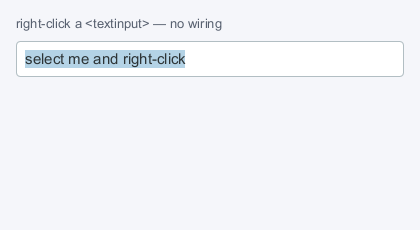
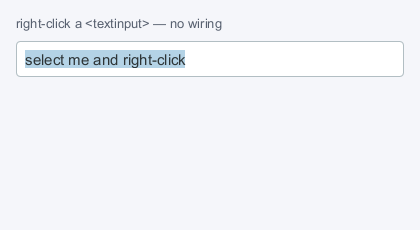
fix(elements): a cell is not a paragraph, and a field's text sits on its capitals
Three from the same review, all one root: text placed by the font's line box
rather than by the letters in it.

**A cell that wrapped was sliced, not taller.** A `<text>` measures
height-for-width, so a locale date in a 150px Modified column wrapped to two
lines inside a 24px row — and a row is a fixed height, so what showed was a
line and a half of date with the rest cut off top and bottom, spilling over
the rows either side. Any name longer than its column did the same.

`textWrap: 'nowrap'` is new and is CSS's: measure at unbounded width, stay on
one line, and let the box decide what to do about the overflow — which
`overflow: 'hidden'` on a cell already knew. `<Table>` sets it on every cell
and every header. The file dialog's Modified column goes to 200px as well,
sized for the long form of a locale date and time rather than the short one,
so the common case does not need the clip at all.

**A field's text sat where the ascent put it.** `<textinput>` centred the
glyph ink, ascent plus descent, which fixes the leading but not what is under
it: a font's ascent clears its capitals by a number that is not its descent,
so one short line in a bordered box sits visibly off centre — 14px above the
capitals against 12 below, at 16px in SF NS. It now puts the baseline where
the two are equal. A field cannot trim its box the way a `<text>` does, since
the caret and the selection are measured against the full line box, so it
[…]

Changed region(s): [[0.0619, 0.2435, 0.4643, 0.3043]]

diff --git a/src/nodes.js b/src/nodes.js
@@ -2129,7 +2129,7 @@ export class TextNode extends Node {
       this.yoga.setMeasureFunc((width, widthMode) => {
         const maxWidth =
           widthMode === Yoga.MEASURE_MODE_UNDEFINED ? Infinity : width;
-        const layout = this._layoutFor(maxWidth);
+        const layout = this._layoutFor(this._wrapWidth(maxWidth));
         if (!layout) return { width: 0, height: 0 };
         const trim = this._trim(layout);
         return {
@@ -2221,6 +2221,22 @@ export class TextNode extends Node {
     return out;
   }
 
+  /**
+   * `textWrap: 'nowrap'` — CSS's, and the reason a table cell is a table cell
+   * rather than a paragraph.
+   *
+   * A `<text>` measures height-for-width: hand it a narrow box and it wraps
+   * to fit, which is right for prose and wrong for a row of a list. A cell is
+   * a fixed height, so a date that wraps to two lines is not a taller row —
+   * it is a line and a half of date with the rest sliced off, top and bottom,
+   * and the same is true of any name longer than its column. Measuring at
+   * unbounded width makes the overflow horizontal instead, which is what
+   * `overflow: 'hidden'` on the cell already knows how to deal with.
+   */
+  _wrapWidth(maxWidth) {
+    return this.style.textWrap === 'nowrap' ? Infinity : maxWidth;
+  }
+
   _layoutFor(maxWidth) {
     const fonts = this.app?.fonts;
     if (!fonts) return null; // mock container in tests: no text metrics
@@ -2280,7 +2296,7 @@ export class TextNode extends Node {
 
   _paintContent(ctx) {
     const content = this.contentBox();
-    const layout = this._layoutFor(content.width || Infinity);
+    const layout = this._layoutFor(this._wrapWidth(content.width || Infinity));
     if (!layout) return;
     // the box was shortened from the top, so the glyphs come up with it
     const trim = this._trim(layout);
@@ -4039,12 +4055,36 @@ export class TextInputNode extends Node {
       ? (this.props.placeholderColor ?? this.theme.dim)
       : style.color;
     const layout = fonts.layout([{ text: shown, ...style, color }], style);
-    // Center the glyph ink (ascent + descent) rather than layout.height:
-    // the layout box carries the line's leading entirely below the glyphs,
-    // which would push the text visually upward (see halfLeading above).
+    // Centre on the **capitals**, not on the line box and not on the ink.
+    //
+    // The layout box carries the line's leading entirely below the glyphs, so
+    // centring that pushes the text visually up (see `halfLeading`). Centring
+    // ascent + descent — what this did — fixes the leading but not the
+    // asymmetry underneath it: a font's ascent clears its capitals by
+    // `ascent - capHeight`, which is not its descent, so a single line of
+    // text sits off-centre by a number that belongs to the typeface. At 14px
+    // that is 0.7px of extra space above the capitals in SF NS and 2.5px the
+    // other way in Helvetica — visible in a field, where there is one short
+    // line and a border close on both sides to measure it against.
+    //
+    // So: put the baseline where the space above the capitals equals the
+    // space under it. A `<text>` says the same thing as `textBoxTrim`, but a
+    // field cannot trim its box — the caret and the selection are measured
+    // against the full line box — so it moves the line instead, and the marks
+    // below follow because they are derived from the same origin.
     const line = layout.lines?.[0];
     const inkHeight = line ? line.ascent + line.descent : layout.height;
-    const textY = content.y + Math.max(0, (content.height - inkHeight) / 2);
+    const ascent = line?.ascent ?? 0;
+    const capHeight = fonts
+      .match?.(style.family, {
+        weight: style.weight,
+        style: style.style,
+      })
+      ?.metrics?.(style.size)?.capHeight;
+    const textY =
+      capHeight && line
+        ? content.y + (content.height + capHeight) / 2 - ascent
+        : content.y + Math.max(0, (content.height - inkHeight) / 2);
     // selection/caret read better with breathing room around the glyphs
     // (a DOM input highlights the whole line box, not just the ink)
     const markPad = Math.min(3, Math.max(0, textY - content.y));

diff --git a/test/integration.test.js b/test/integration.test.js
@@ -1333,6 +1333,67 @@ test('a button holds its label evenly on the capitals', async () => {
   }
 });
 
+// A row is a fixed height, so a cell that wraps is not a taller row — it is
+// a line and a half of text with the rest sliced off, top and bottom, and it
+// spills over the rows either side on the way. Needs real metrics: the mock
+// app has no fonts, so nothing there ever wraps.
+test('a table cell keeps its text on one line, inside its row', async () => {
+  const { app } = await createHeadlessApp();
+  const x11Root = await createRoot({ app });
+  const { Table } = await import('../src/index.js');
+
+  try {
+    const wnd = await render(
+      React.createElement(
+        'window',
+        { width: 300, height: 200 },
+        React.createElement(Table, {
+          columns: [
+            { id: 'name', label: 'Name', width: 90 },
+            { id: 'when', label: 'Modified', width: 70 },
+          ],
+          rows: [
+            {
+              id: 1,
+              name: 'a-very-long-file-name.txt',
+              when: '8/10/2026, 10:30:05 AM',
+            },
+            { id: 2, name: 'b.txt', when: '8/10/2026, 10:10:25 AM' },
+          ],
+        }),
+      ),
+      x11Root,
+    );
+    await new Promise((resolve) => setTimeout(resolve, 200));
+
+    const all = [];
+    const walk = (n) => {
+      all.push(n);
+      for (const c of n.children) if (!c.isWindow) walk(c);
+    };
+    walk(wnd._reactX11Node);
+    const rows = all.filter((n) => n.props.role === 'row');
+    assert.equal(rows.length, 2, 'both rows built');
+
+    for (const row of rows) {
+      for (const cell of row.children) {
+        const text = cell.children.find((n) => n.kind === 'text');
+        assert.ok(text, 'the cell drew its text');
+        assert.ok(
+          text.abs.y >= cell.abs.y &&
+            text.abs.y + text.abs.height <= cell.abs.y + cell.abs.height,
+          `text ${text.abs.y}..${text.abs.y + text.abs.height} escapes its ` +
+            `cell ${cell.abs.y}..${cell.abs.y + cell.abs.height}`,
+        );
+      }
+    }
+
+    await x11Root.unmount();
+  } finally {
+    await app.close();
+  }
+});
+
 test('a window with no size fits its text, and wraps to fit the screen', async () => {
   // The claim the mock-app tests cannot make: an auto size measured through
   // real glyph metrics, and the height-for-width pass that a wrapping

diff --git a/src/components/FileDialog.js b/src/components/FileDialog.js
@@ -32,6 +32,10 @@ const h = React.createElement;
 
 const ALL_FILES = '__all__';
 
+// A row is one line high, so a name longer than its column is clipped at the
+// column's edge rather than wrapped into a line and a half of name.
+const NOWRAP = Object.freeze({ textWrap: 'nowrap' });
+
 // Stat-ing every entry is one syscall each, which is nothing on a local
 // filesystem and very much something on a network mount with ten thousand
 // files in one directory. Past this, sizes and dates are left blank rather
@@ -334,6 +338,7 @@ export function FileDialog({
           {
             style: [
               capTrim,
+              NOWRAP,
               {
                 color: selected
                   ? theme.hoverText
@@ -358,8 +363,12 @@ export function FileDialog({
     });
     cols.push({
       id: 'modified',
+      // A locale date *and* time: 23 characters at the widest — "12/31/2026,
+      // 12:30:05 PM" — and a column that cannot hold one is the column that
+      // showed a sliced two-line date before cells stopped wrapping. Sized
+      // for the long form rather than for the short one.
       label: 'Modified',
-      width: 150,
+      width: 200,
       value: (row) =>
         row.modified ? new Date(row.modified).toLocaleString() : '',
     });

diff --git a/src/types/style.d.ts b/src/types/style.d.ts
@@ -148,6 +148,7 @@ export interface PaintStyle {
  * and the leading still splits evenly, moving both edges by the same amount.
  */
 export type TextBoxTrim = 'none' | 'cap-alphabetic';
+export type TextWrap = 'wrap' | 'nowrap';
 
 export type TextRendering =
   'auto' | 'optimizeSpeed' | 'optimizeLegibility' | 'geometricPrecision';
@@ -173,6 +174,11 @@ export interface TextStyle {
   textRendering?: TextRendering;
   textAlign?: TextAlign;
   lineHeight?: number;
+  /** CSS's `text-wrap`. `'nowrap'` measures the text at unbounded width, so
+   *  it stays on one line and overflows its box horizontally rather than
+   *  wrapping to fit — what a fixed-height row wants, since a wrapped line in
+   *  one is sliced rather than shown. Default `'wrap'`. */
+  textWrap?: TextWrap;
   /** Default `'none'`. Applies to `<text>`; the editable controls keep their
    *  full line box, which their caret and selection geometry are measured
    *  against. */

diff --git a/src/components/Table.js b/src/components/Table.js
@@ -58,7 +58,7 @@ const s = createStyles({
     cursor: 'pointer',
     transition: { backgroundColor: 80 },
   },
-  headerLabel: { fontSize: 12 },
+  headerLabel: { fontSize: 12, textWrap: 'nowrap' },
   grip: {
     flexShrink: 0,
     cursor: 'col-resize',
@@ -85,7 +85,9 @@ const s = createStyles({
     flexShrink: 0,
     overflow: 'hidden',
   },
-  cellText: { fontSize: 12 },
+  // one line, always: a row is a fixed height, so a cell that wrapped
+  // would be sliced rather than shown — `textWrap` in styling.md
+  cellText: { fontSize: 12, textWrap: 'nowrap' },
   spacer: { flexShrink: 0 },
   sortMark: { width: 8, height: 5, marginLeft: 4 },
 });

diff --git a/src/styles.js b/src/styles.js
@@ -155,6 +155,10 @@ export const TEXT_LAYOUT_PROPS = new Set([
   // read by TextNode rather than passed to ntk: it trims the box the layout
   // produced, it does not change the layout
   'textBoxTrim',
+  // read by TextNode too, and it *is* the layout: `'nowrap'` measures at
+  // unbounded width, so the text is one line and whatever contains it decides
+  // what to do about the overflow
+  'textWrap',
 ]);
 
 /**

diff --git a/docs/styling.md b/docs/styling.md
@@ -207,6 +207,28 @@ A glyph drawn as text — a check mark, a submenu arrow, an icon — is centred
 on its own middle rather than sitting on a baseline, so trimming its box
 moves it off centre. Those keep the full line box, and so should yours.
 
+`<textinput>` cannot trim — its caret and selection are measured against the
+full line box — so it does the same thing by moving the line instead: the
+baseline goes where the space above the capitals equals the space under it,
+and the caret and the selection follow, being drawn from the same origin.
+
+## Keeping text on one line
+
+```jsx
+<text style={{ textWrap: 'nowrap' }}>{row.modified}</text>
+```
+
+`textWrap: 'nowrap'` is CSS's, and it is what separates a cell from a
+paragraph. A `<text>` measures height-for-width: hand it a narrow box and it
+wraps to fit, which is right for prose and wrong for a row of a fixed height —
+a date that wraps to two lines is not a taller row, it is a line and a half of
+date with the rest sliced off, top and bottom, spilling over the rows either
+side on the way. `'nowrap'` measures at unbounded width, so the overflow is
+horizontal, which `overflow: 'hidden'` on the box around it already knows what
+to do with. Default `'wrap'`.
+
+`<Table>` sets it on every cell and header for that reason.
+
 ## `createStyles`
 
 Identity is the point — a hoisted style object lets `applyProps` skip the
